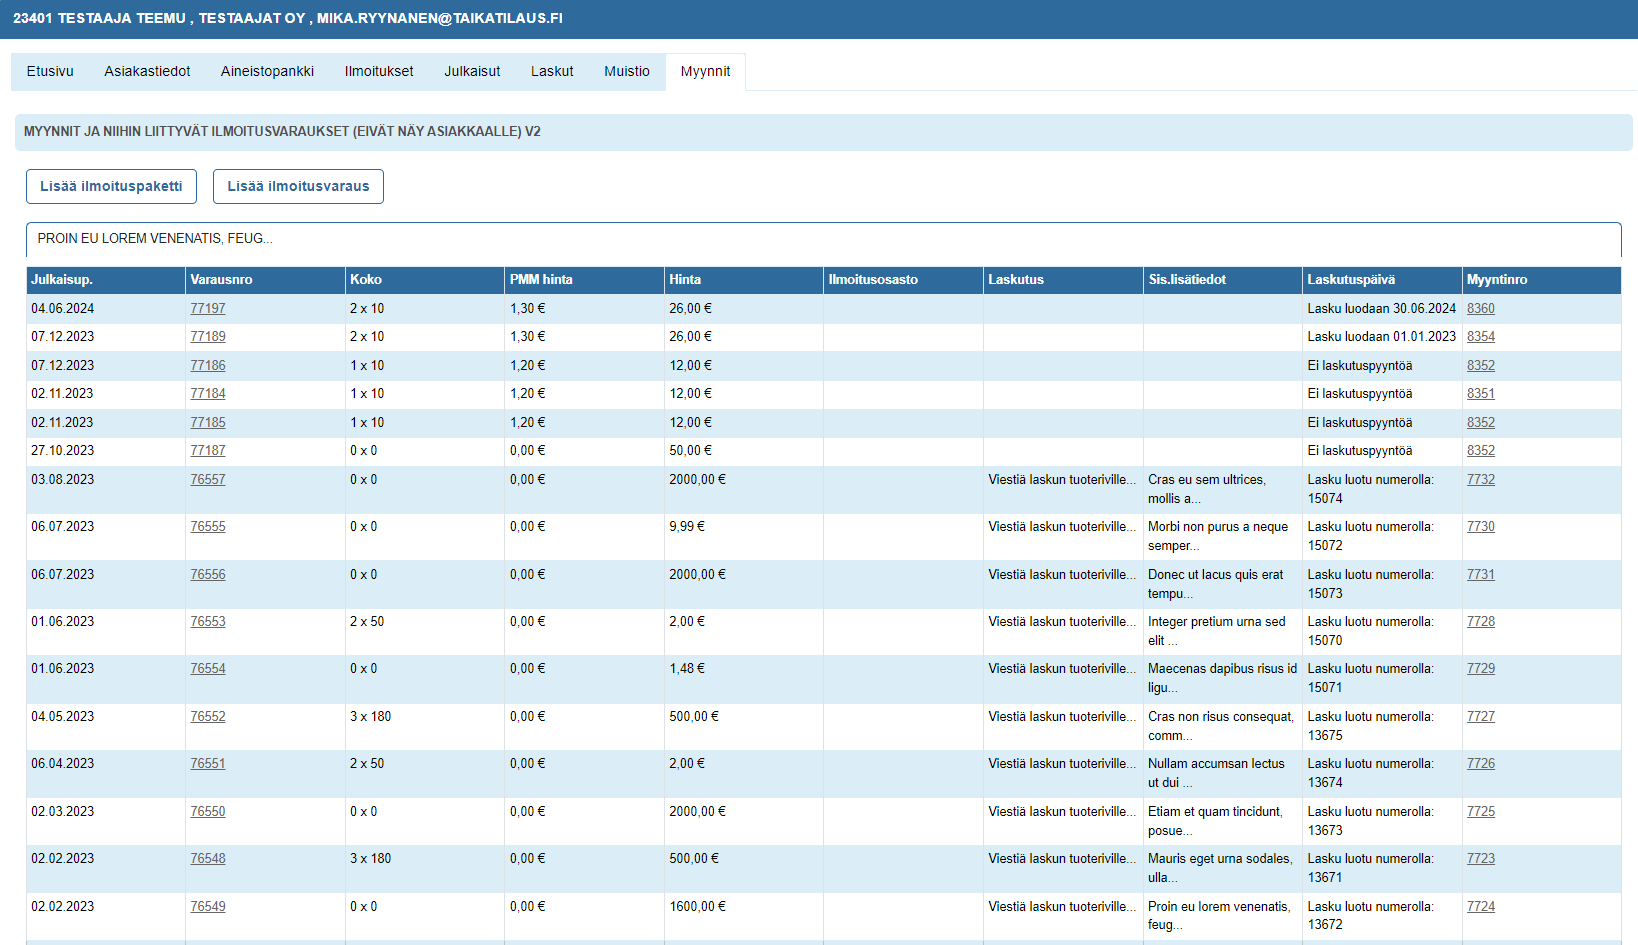
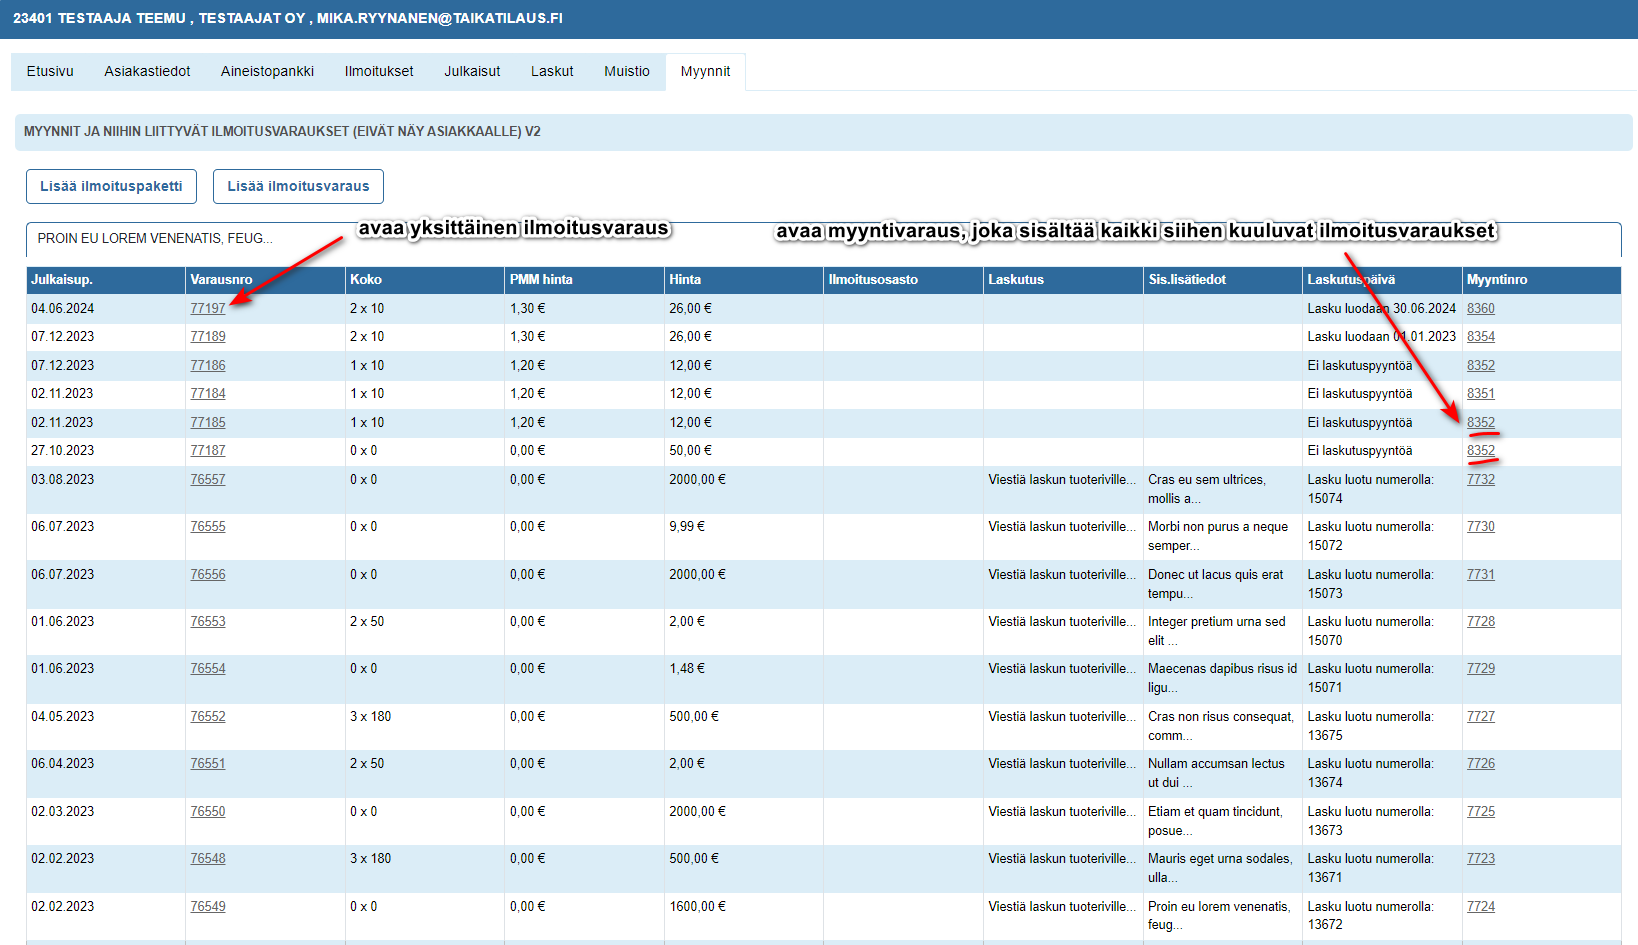
ilmoitusasiakas

diff --git a/docs/ohjeet/ilmoitustenhallinta/ilmoitusasiakas.md b/docs/ohjeet/ilmoitustenhallinta/ilmoitusasiakas.md
@@ -125,145 +125,178 @@ Myynteihin liittyviä mainos-/ilmoitusvarauksia voi hakea listaukselta
 Myyntinumeroa klikkaamalla siirrytään yksittäisen myynnin käsittelyyn
 
 ![Ilmoitusasiakas - Myynti](/img/ohjeet/myynnit.png)
+*Myynnit-välilehdeltä voit lisätä ilmoitusvarauksia ja hallita myyntejä.*
 
-Mikäli käyttäjä on aktivoinut omissa tiedoissaan **Pelkistetyn ilmoitusvarauslomakkeen** käytön, niin **Myynnit**-listaus näyttää toisenlaiselta, jossa kyseisen Ilmoitusasiakkaan listauksella näkyy kaikki tehdyt ilmoitusvaraukset yksittäisinä riveinä ja ne voidaan avata käsittelyä varten joko 
-- varausnumerosta (yksittäinen ilmoitusvaraus)
-- tai myyntinumerosta (kaikki myyntivaraukseen liittyvät ilmoitusvaraukset)
+Mikäli käyttäjä on aktivoinut omissa tiedoissaan <a href="/docs/pikaohjeet/ilmoitusvarauslomake">**Pelkistetyn ilmoitusvarauslomakkeen**</a> käytön, niin **Myynnit**-listaus näyttää toisenlaiselta, jossa kyseisen Ilmoitusasiakkaan listauksella näkyy kaikki tehdyt ilmoitusvaraukset yksittäisinä riveinä ja ne voidaan avata käsittelyä varten joko 
+- **varausnumerosta** (yksittäinen ilmoitusvaraus)
+- tai **myyntinumerosta** (kaikki myyntivaraukseen liittyvät ilmoitusvaraukset)
 
 ![Ilmoitusasiakas - Myynti](/img/ohjeet/myynnit-pelkistetty.png)
+*Pelkistetyn lomakkeen kautta voit käsitellä joko yksittäisiä ilmoitusvarauksia tai myyntivarauksia.*
 
-### Yksittäinen myynti
+### Yksittäisen myynnin käsittely
 
-Myyntiin liittyviä mainos-/ilmoitusvarauksia
+Yksittäisen myynnin näkymästä pääset tarkastelemaan siihen liittyviä mainos/ilmoitusvarauksia sekä muokkaamaan myynnin tietoja.
 
-Yksittäistä myyntiä pääsee muokkaamaan Muokkaa myyntiä –painikkeen kautta
+![Myynti - Myynnin käsittely](/img/ohjeet/myynninkasittely.png)
 
-Poista myynti -painike näkyy vain, mikäli ko. myyntiä ei ole vielä laskutettu
+Myyntiä pääsee muokkaamaan **Muokkaa myyntiä** –painikkeen kautta:
 
-Lisää ilmoitusvaraus –painikkeella lisätään uusi ilmoitusvaraus tähän kyseiseen myyntiin
+**Poista myynti** -painike näkyy vain, mikäli kyseistä myyntiä ei ole vielä laskutettu.
 
-Ilmoitusvarauksen numeroa klikkaamalla pääsee yksittäisen ilmoitusvarauksen tietoihin
+Myynnin Laskutuspyyntöjä (josta varsinainen lasku luodaan) pääsee muokkaamaan
+- **Kynä**-ikonista koko sisältöä
 
-Yksittäisen ilmoitusvaraukseen liittyvää Laskutuspyyntöä (josta varsinainen lasku luodaan) pääsee muokkaamaan
-- Kynä -ikonista koko sisältöä
-- Pvm -linkistä laskutuspäivää
-- Luo lasku -painikkeesta ohittamaan laskutuspäivän ja luomaan laskun välittömästi
+![Myynti - Laskun muokkaus](/img/ohjeet/laskukyna.png)
+
+- **Saa luoda pvä** -linkistä laskutuspäivää
+- **Luo lasku** -painikkeesta ohittamaan laskutuspäivän ja luomaan laskun välittömästi
+
+Jos myynnille on asetettu pakettihinta, tulee näkyviin **Lisää myynnille laskutuspyyntö** -painike.
+
+![Myynti - Myynnin käsittely](/img/ohjeet/pakettihinta.png)
+
+**Lisää myynnille ilmoitusvaraus** –painikkeella lisätään uusi ilmoitusvaraus tähän kyseiseen myyntiin. **Poista laskuttamattomat ilmoitusvaraukset** -painikkeesta voit poistaa myynniltä ilmoitusvaraukset, joita ei ole vielä laskutettu.
+
+Ilmoitusvarauksen **numeroa** klikkaamalla pääsee yksittäisen ilmoitusvarauksen tietoihin.
+
+### Yksittäisen myynnin muokkaaminen
+
+![Myynti - Myynnin muokkaus](/img/ohjeet/myynninmuokkaus.png)
+
+**Myynnin muokkaaminen** -lomakkeella voit:
+- vaihtaa myyntiin liitetyn **myyjän**
+- kirjata ylös myyntiin liittyviä **lisätietoja**
+- lisätä tekstin **laskun tuoteriville**
+- määrittää myynnille **verottoman pakettihinnan ja alennusprosentin** (tällöin myyntiin liittyvien yksittäisten ilmoitusvarausten hintoja ei oteta huomioon)
+- jos olet pääkäyttäjä, voit **siirtää myynnin** toiselle asiakkaalle
 
 ### Myyntipaketin lisääminen
 
-Myytävät ilmoituspaketit pitää olla valmiiksi luotuina Asetukset / Paketit -toiminnon kautta (esim. Räätälöity paketti)
+![Ilmoitusasiakas - Myynnit](/img/ohjeet/lisaailmoituspaketti.png)
 
-Lisää ilmoituspaketti –välilehdellä voi lisätä uuden myyntipaketin
+Myytävät ilmoituspaketit pitää olla valmiiksi luotuina <a href="https://taikatilaus.github.io/docs/ohjeet/asetukset#paketit">Asetukset / Paketit -toiminnon</a> kautta.
 
-Ohjelma lisää automaattisesti ko. myyntipakettiin kuuluvat myyntivaraukset, mutta tallennuksen jälkeen pitää vielä lisätä oikeat tuotteet kuhunkin myyntivaraukseen
+Myyntipaketin luomiseen pääset painamalla **Lisää ilmoituspaketti** –painiketta.
 
-Myynnin lisätiedot –kenttään voi kirjoittaa myyntiin liittyviä tietoja, jotka eivät näy asiakkaalle, eikä käsittelijöille
+![Myynti - Myynnin lisääminen](/img/ohjeet/ilmoituspaketti.png)
 
-Myyntipaketti –valikosta valitun paketin mukaisesti myyntiin lisätään automaattisesti kaikki ko. myyntipaketin myyntivaraukset
+Oletuksena myyntiin on lisättty asiakkaaseen liitetty myyjä. Voit kuitenkin vaihtaa **myyjän** tarvittaessa.
 
-Laskun tuoterivi –kenttään voi määrittää Myyntipaketille laskulle tulostuvan tuoterivitiedon, sekä paketin yhteishinnan.
-Mikäli nämä ovat määriteltyinä, niin Myyntivarausten hintoja ei huomioida
+**Myynnin lisätiedot** –kenttään voi kirjoittaa myyntiin liittyviä tietoja, jotka eivät näy asiakkaalle, eikä käsittelijöille.
 
-Lopulliset hintatiedot lasketaan automaattisesti (ALV 0%) syötetystä Hinta ja Alennusprosentti -luvuista
+**Myyntipaketti**–valikosta valitun paketin mukaisesti myyntiin lisätään automaattisesti kaikki kyseisen myyntipaketin ilmoitusvaraukset.
 
-Laskujen muodostuminen –osiossa voi määrittää (ilmestyy näkyviin, kun paketin Hinta –tieto on ensin annettu)
-- Kuinka moneen laskutuserään paketin kokonaishinta jaksotetaan
-- Koska paketin ensimmäinen erä laskutetaan
-- Koska paketin viimeinen erä laskutetaan
+Ohjelma lisää automaattisesti kyseiseen myyntipakettiin kuuluvat ilmoitusvaraukset, mutta **tallennuksen jälkeen pitää vielä lisätä mihin julkaisuun kyseiset ilmoitukset tulevat**.
 
-### Myyntipaketin laskutus
+**Laskun tuoterivi** –kenttään voi määrittää myyntipaketin laskulle tulostuvan tuoterivitiedon. 
 
-Laskujen muodostuminen –osiossa määriteltyjä laskutuseriä pääsee muokkaamaan Myynnin käsittely –näkymässä klikkaamalla
+Voit myös määrittää paketin verottoman **yhteishinnan**. Mikäli se on määritelty, yksittäisten ilmoitusvarauksien hintoja **ei huomioida**. Lopulliset hintatiedot lasketaan **automaattisesti** syötetystä **Hinta** ja **Alennusprosentti**-luvuista.
 
-- Kynä –ikonia kunkin Laskutuspyyntörivin kohdalla
-- Muuttamalla Laskutuspäivää, Hintaa ja/tai Alennusprosenttia
-- Klikkaamalla Laske ja Tallenna -painikkeita
-- Muuttamalla seuraavan erän vastaamaan edellistä muutosta niin, että alun perin annettu paketin kokonaishinta toteutuu
-
-Myynnille annetun pakettihinnan takia yksittäisiä myyntivarauksen hintoja ei huomioida (oletushinnat, jotka on määritelty Asetukset / Myyntituotteet kautta)
-Ilmoitusvarauksille voi kuitenkin määrittää eri hintoja mm. raportointeja varten (paketin summan jakautuminen)
-
-Pakettiin sisältyvät yksittäiset Myyntituotteet lisätään Myynnin ilmoitusvaraukset –osiossa Lisää myynnille ilmoitusvaraus –painikkeella (kuten yksittäiset Myyntivarauksetkin)
+**Laskujen muodostuminen** –osiossa voi määrittää (ilmestyy näkyviin, kun paketin Hinta–tieto on ensin annettu)
+- Kuinka moneen **laskutuserään** paketin kokonaishinta jaksotetaan
+- Koska paketin **ensimmäinen erä** laskutetaan
+- Koska paketin **viimeinen erä** laskutetaan
 
 ### Ilmoitusvarauksen lisääminen
 
-Lisää ilmoitusvaraus –välilehdellä voi lisätä uuden ilmoitusvarauksen
+![Ilmoitusasikas - Myynnit ](/img/ohjeet/lisaailmoitusvaraus.png)
 
-- Valitse Myyjä, mikäli eri kuin kirjautunut Myyntivarauksen tekijä
-- Valitse Kanava, jolloin alle avautuu siihen kuuluvat tuotteet
-- Valitse Tuote, jolloin alle avautuu siihen kuuluvat julkaisut
+*Ilmoitusvarauksen lisäämiseen pääsee ilmoitusasikkaan Myynnit-välilehdeltä.*
 
-Julkaisun numero, ilmestymispäivä, … -valikosta voidaan valita yksi tai useampi julkaisun numero Valitse useita –linkin kautta.
+Uuden ilmoitusvarauksen pääset lisäämään **Lisää ilmoitusvaraus** –painikkeesta.
+
+![Myynnit - Ilmoitusvarauksen lisääminen](/img/ohjeet/ilmoitusvarauksenlisaaminen-perus.png)
+*Ilmoitusvarauksen perustiedot.*
+
+- Valitse **Myyjä**, mikäli eri kuin asiakkaaseen liitetty myyjä
+- Valitse **Kanava**, jolloin alle avautuu siihen kuuluvat tuotteet
+- Valitse **Tuote**, jolloin alle avautuu siihen kuuluvat julkaisut
+
+Voit valita yhden tai useamman julkaisun, jossa ilmoitus ilmestyy painamalla **Valitse useita** -painiketta.
 Tätä ei voi enää jälkikäteen muuttaa.
 
-Muut määriteltävät kentät avautuvat yllä olevien valintojesi perusteella ja kanavakohtaisesti voidaan määritellä erilaisia asioita, kuten radiospotin keston tai bannerimainoksen näyttömäärät
+Muut määriteltävät kentät avautuvat yllä olevien valintojesi perusteella ja kanavakohtaisesti voidaan määritellä erilaisia asioita, kuten palstamäärän, radiospotin keston tai bannerimainoksen näyttömäärät.
 
-Toiston tiedot -kentässä ilmoitetaan mahdollisesti aiemmin julkaistun aineiston myyntivarausnumero
+**Toiston tiedot** -kentässä ilmoitetaan mahdollisesti aiemmin julkaistun aineiston myyntivarausnumero.
 
-Kiireellinen -kentän aktivointi näyttää tämän myyntivarauksen korostettuna Ilmoitustyöjono -listauksella
+**Kiireellinen**-kentän aktivointi näyttää tämän myyntivarauksen korostettuna Ilmoitustyöjono-listauksella
 
-Aineistotiedoissa kerrotaan, kuka toimittaa ilmoitusvaraukseen liittyvän aineiston
-- Muutettavissa asiakkaan Myynnit / Ilmoitusvarauksen muokkaus –näkymän kautta
+![Ilmoitusvarauksen lisääminen- Ainestotiedot](/img/ohjeet/aineistotiedot.png)
+*Ainestotiedoissa kerrottaan kuka toimittaa ilmoitukseen liittyvän aineiston ja lisätään ilmoitustekstin.*
 
-Aineiston toimittamisesta voidaan lähettää automaattinen viesti ilmoitusvarauksen käsittelijälle, joka voi aloittaa ilmoituksen työstämisen
-- Käsittelijän tiedot voidaan hakea myös itse tuotteelta, kun on ensin valittu Kun asiakas on toimittanut aineiston –valikosta sopiva toiminto
+**Ainestotiedoissa** voidaan lisätä ilmoitusteksti ja kerrotaan, kuka toimittaa ilmoitusvaraukseen liittyvän aineiston.
 
-Ilmoitus voidaan vielä hyväksyttää asiakkaalla ennen sen julkaisemista. Tällöin asiakkaalle lähtee automaattiviesti heti valmiin ilmoituksen palveluun lataamisen jälkeen
-- Ilmoituksen hyväksyjä -valikosta valitaan/lisätään aineiston lopullinen Hyväksyjä, jolle hyväksymispyyntö lähetetään
+Aineiston toimittamisesta voidaan lähettää automaattinen viesti ilmoitusvarauksen käsittelijälle, joka voi aloittaa ilmoituksen työstämisen.
 
-Tarkistuskappale –kentän aktivointi lähettää asiakkaalle automaattisesti ilmoituksen sisältävän paperilehden
+Jos ilmoituksessa on vain tekstiä, täytä **Ilmoitukseen ei liity tiedostoja** -kenttä.
 
-Hinta- ja laskutustiedot –osiossa voi tarvittaessa muuttaa tuotteen Normaalihintaa (oletus valitun tuotteen tiedoista) ja lisätä mahdollisen Alennusprosentin
+![Ilmoitusvarauksen lisäminen - Varausvahvistus](/img/ohjeet/varausvahvistus.png)
+*Ilmoitusvarauksesta voi lähettää varausvahvistuksen ja sille voi määrätä valmiin ilmoituksen hyväksyjän.*
 
-Lopullinen hinta lasketaan annetun määrän, keston tai koon mukaan (esim. Ilmoitusosastolla voi lisäksi olla eri hinta kuin myyntituotteella).
-Hinnan voi muuttaa ja laskea uudelleen Laske hinta verollisesta / Laske hinta verottomasta –linkkien avulla
+Lomakkeessa voi valita kenelle lähetetään ilmoitusvarauksesta **varausvahvistus**.
 
-Lisätiedot laskun tuoteriville –kentässä annetaan asiakkaan laskulle näkyviin haluttavat tiedot
-- Ne voidaan myös tallentaa Lisää vakiotekstiksi –painikkeesta ja käyttää jatkossakin
-- Tallennettujen listaus avautuu Vakiotekstit –painikkeesta ja Valitse –painikkeesta klikkaamalla kopioituu ko. teksti kenttään, jossa sitä voi tarvittaessa vielä muokata
-- Poista –painikkeesta tallennettu viesti poistuu käytöstä
+Ilmoitus voidaan vielä hyväksyttää asiakkaalla ennen sen julkaisemista. Tällöin asiakkaalle lähtee automaattiviesti heti sen jälkeen kun valmis ilmoitus on ladattu palveluun
+- **Ilmoituksen hyväksyjä** -valikosta lisätään aineiston lopullinen Hyväksyjä, jolle hyväksymispyyntö lähetetään
 
-Valmistuslisä huomioidaan myös hintaan, kun se lisätään uudeksi tuoteriviksi laskulle
+Jos asiakas lähettää valmiin ilmoituksen, täytetään **Aineisto on valmis ilmoitukseksi** -kenttä, jolloin ilmoitusta ei tarvitse erikseen hyväksyttää.
 
-Laskutustapoja on erilaisia, kuten jokainen ilmoitus erikseen tai koontilaskuna viimeisen ilmoituksen jälkeen
-–kentän tiedon mukaisesti luodaan lasku, joka jättää huomioimatta muut Laskutustapa -valinnat.
+Täyttämällä **Tarkistuskappale**-kentän, lähetetään asiakkaalle automaattisesti tarkistuskappale valmiista ilmoituksesta/mainoksesta.
 
-Viite on asiakkaan antama laskuviitteen teksti, joka siirretään laskun tuoteriville (esim. laskutettavan yrityksen osastokohtaiset viitteet).
+![Ilmoitusvarauksen lisääminen - Hinta- ja laskutustiedot](/img/ohjeet/ilmoitusvaraushinta.png)
+*Hinta- ja laskutustiedoista määrätään ilmoitusvarauksen hinta- ja laskutustietoja.*
 
-Laskutetaan omanaan kentän aktivointi muodostaa ko. ilmoitusvarauksesta oman laskutuspyynnön, josta muodostuu yksittäinen lasku (muut Laskutustapa -valinnat jätetään huomioimatta).
+**Hinta- ja laskutustiedot** –osiossa voi tarvittaessa muuttaa tuotteen Normaalihintaa (oletushinta asetetaan asetuksista) ja lisätä mahdollisen Alennusprosentin.
 
-Ilmoitusvaraukselle voi myös lisätä Eri maksajan tarvittaessa Hae laskun maksajaa –painikkeesta (oltava asiakasrekisterissä valmiiksi lisättynä)
+Lopullinen hinta lasketaan annetun määrän, keston tai koon mukaan (esim. Ilmoitusosastolla voi lisäksi olla eri hinta kuin myyntituotteella). Hinnan voi muuttaa ja laskea uudelleen **Laske hinta verollisesta / Laske hinta verottomasta** -painikkeiden avulla.
 
-Varausilmoituksen voi myös tulostaa PDF-tulosteena ja tallentaa tiedostoksi omalle koneelle klikkaamalla ensin Tulosta -painiketta, jonka jälkeen ilmestyy Avaa PDF-tuloste -painike
+![Ilmoitusvarauksen lisääminen - Vakiotekstit](/img/ohjeet/vakiotekstit.png)
+*Ilmoitusvarauksen laskuun voi lisätä tekstejä ja käyttää uudestaan tallennettuja tekstejä.*
 
-Kopioi -painikkeesta pystyy luomaan uuden ilmoitusvarauksen aiemman ilmoituksen pohjatiedoilla. Klikkauksen jälkeen avautuu uusi/luotu Ilmoitusvaraus -lomake, johon tehdään tarvittavat muutokset (esim. Julkaisun valinta) ennen tallennusta.
+**Lisätiedot laskun tuoteriville** –kentässä annetaan asiakkaan laskulle näkyviin haluttavat tiedot
+- Ne voidaan myös tallentaa **Lisää vakiotekstiksi** –painikkeesta ja käyttää jatkossakin
+- Tallennettujen listaus avautuu **Vakiotekstit**–painikkeesta ja Valitse–painikkeesta klikkaamalla kopioituu kyseinen teksti kenttään, jossa sitä voi tarvittaessa vielä muokata
+- **Poista**–painikkeesta tallennettu viesti poistuu käytöstä
 
+**Valmistuslisä** huomioidaan myös hintaan, kun se lisätään uudeksi tuoteriviksi laskulle. 
 
-Ilmoitusvarauksen perustiedot
+![Ilmoitusvarauksen lisääminen - Laskutustavat](/img/ohjeet/laskutustavat.png)
 
-Malli NETTI-kanavan tuotekentistä
+**Laskutustapoja** on erilaisia, kuten jokainen ilmoitus erikseen tai koontilaskuna viimeisen ilmoituksen jälkeen
+- kentän tiedon mukaisesti luodaan lasku, joka jättää huomioimatta muut Laskutustapa -valinnat.
 
-Malli RADIO-kanavan tuotekentistä
+**Ilmoitusmääräin** on asiakkaan antama laskuviitteen teksti, joka siirretään laskun tuoteriville (esim. laskutettavan yrityksen osastokohtaiset viitteet).
 
-Ilmoitusvaraukseen liittyvän aineiston tiedot
+**Laskutetaan omanaan** -kentän aktivointi muodostaa kyseisestä ilmoitusvarauksesta oman laskutuspyynnön, josta muodostuu yksittäinen lasku (muut Laskutustapa -valinnat jätetään huomioimatta).
 
-Ilmoitusvarauksen hinta- ja laskutustiedot
+![Ilmoitusvarauksen lisääminen - Laskun maksaja](/img/ohjeet/ilmoitusmaksaja.png)
 
-Vakiotekstit laskupohjan tuoteriville
-Mikäli käyttäjä on aktivoinut omissa Käyttäjän tiedoissaan Pelkistetyn ilmoitusvarauslomakkeen käytön, niin yksittäinen Ilmoitusvaraus -lomake näyttää toisenlaiselta, jossa lomakkeella näkyy vain (käyttöönotossa sovitut)
-- Ilmoituksen perustiedot (kuten aiemminkin)
-- Hinta- ja laskutustiedot -osion kentät
-- Laskun maksaja -tiedot
-- Laskujen muodostuminen -laskutiedot
+Ilmoitusvaraukselle voi myös tarvittaessa lisätä eri maksajan **Hae laskun maksajaa** –painikkeesta (maksajan on oltava asiakasrekisterissä jo valmiiksi lisättynä).
 
-Mikäli esim. ilmoituksen perustietoihin halutaan näkyviin muita kenttiä (pitkästä lomakkeesta) ja/tai muita osioita, kuten esim. Aineistotiedot -osion Ilmoitukseen ei liity tiedostoja -kenttä, niin niiden näkyvyyden aktivoinnista sovitaan erikseen ennen käyttöönottoa.
+#### *Pelkistetty ilmoitusvaraus-lomake*
+
+![Myynnit - Ilmoitusvarauksen lisääminen](/img/ohjeet/ilmoitusvarauksenlisaaminen.png)
+*Pelkistetty ilmoitusvaraus-lomake*
+
+Mikäli käyttäjä on aktivoinut omissa Käyttäjän tiedoissaan pelkistetyn ilmoitusvarauslomakkeen käytön, niin yksittäinen ilmoitusvaraus-lomake näyttää toisenlaiselta, ja lomakkeella näkyy vain
+- **Ilmoituksen perustiedot** 
+- **Hinta- ja laskutustiedot** -osion kentät
+- **Laskun maksaja** -tiedot
+
+Mikäli esim. ilmoituksen perustietoihin halutaan näkyviin muita kenttiä (pitkästä lomakkeesta) ja/tai muita osioita, kuten esim. Aineistotiedot-osion Ilmoitukseen ei liity tiedostoja -kenttä, niin niiden näkyvyyden aktivoinnista sovitaan erikseen ennen käyttöönottoa.
 
 Toiminnallisesti molemmat lomakkeet ovat siis samat kuin tähänkin asti ja käyttäjä voi aktivoida/vaihtaa kumman tahansa päälle milloin tahansa. 
 
-### Ilmoitusvarauksen laskutus
+### Valmiin ilmoitusvarauksen lisätoiminnot
 
-Ilmoitusvarauksen tallennuksen yhteydessä muodostuu automaattisesti Laskutuspyyntö, joka näkyy Myynnin koontisivun Laskutus -osiossa
+![Myynnit - Ilmoitusvarauksen muokkaus](/img/ohjeet/valmisilmoitus.png)
 
-Saa luoda pvm -kentässä näkyvä tieto tuodaan automaattisesti tuotteelle asetetusta oletuspäivästä, mutta sen pystyy muuttamaan tarvittaessa
-- Suoraan ko. PVM kentän kautta
-- Ilmoitusvaraus -lomakkeen Laskutuspäivä -kentän avulla (asiakkaan kanssa sovittu laskutuspäivä)
+Ilmoitusvarauksen tallentamisen jälkeen ilmestyy lomakkeelle muutama lisätoiminto.
+
+**Laskujen muodostuminen** -kentässä lukee lisätietoja laskun muodostamisesta ja lähetyspäivästä.
+
+Varausilmoituksen voi tulostaa PDF-tulosteena ja tallentaa tiedostoksi omalle koneelle klikkaamalla ensin **Tulosta**-painiketta, jonka jälkeen ilmestyy **Avaa PDF-tuloste** -painike.
+
+**Kopioi**-painikkeesta pystyy luomaan uuden ilmoitusvarauksen aiemman ilmoituksen pohjatiedoilla. Klikkauksen jälkeen avautuu uusi ilmoitusvaraus-lomake, johon tehdään tarvittavat muutokset (esim. Julkaisun valinta) ennen tallennusta.
+
+Ilmoitusvarauksen voi poistaa painamalla **Poista**-painiketta.

diff --git a/docs/pikaohjeet/ilmoitusvarauslomake.md b/docs/pikaohjeet/ilmoitusvarauslomake.md
@@ -11,3 +11,5 @@ sidebar_position: 14
 ### 2. Paina Pelkistetty Ilmoitusvarauslomake käytössä ja sitten Tallenna
 
 ![2. Käyttäjän tiedot](/img/pikaohjeet/pelkistetty2.png)
+
+### 3. Kirjaudu palvelusta ulos ja takaisin sisään, että asetus tulee voimaan
